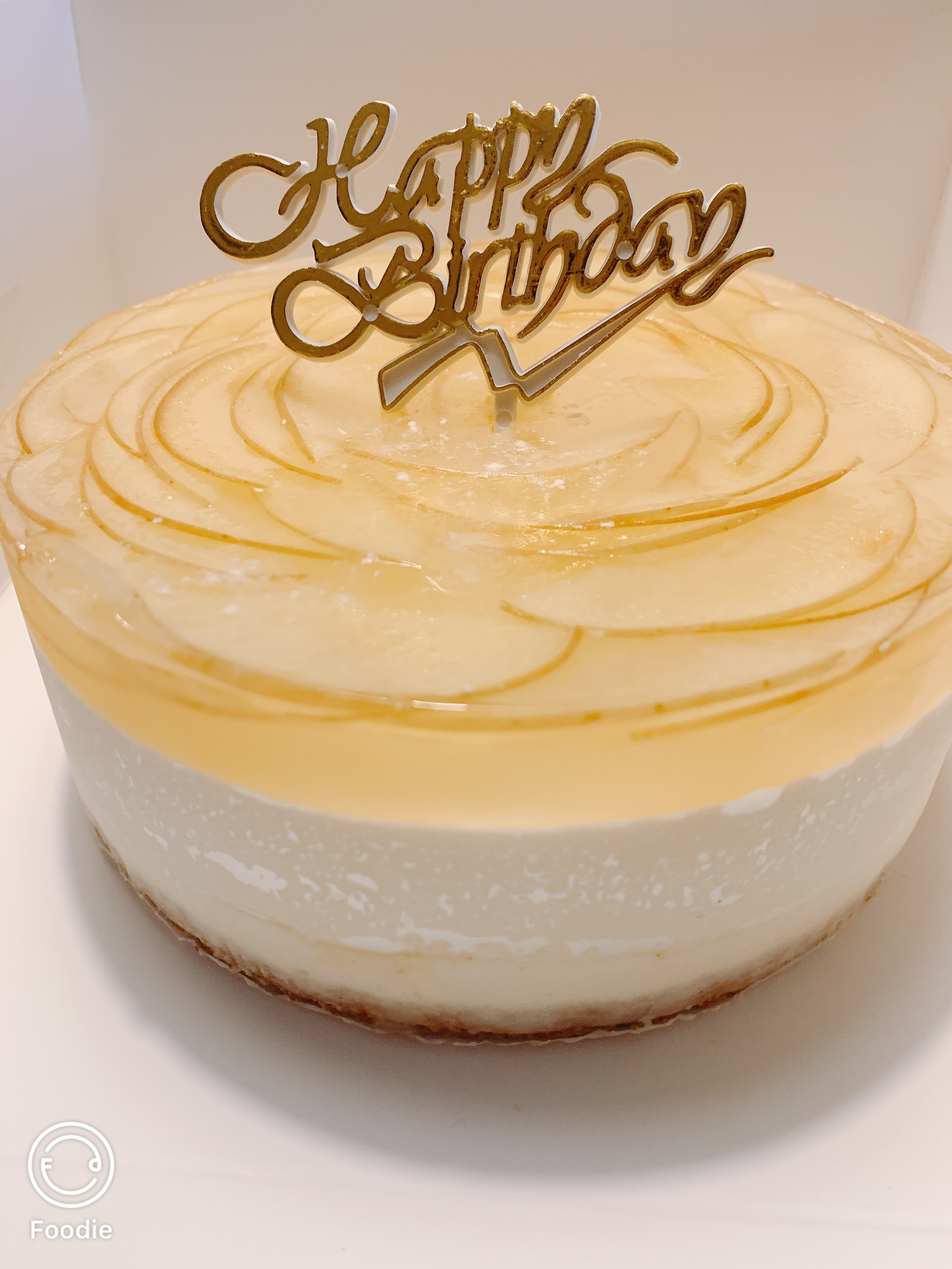
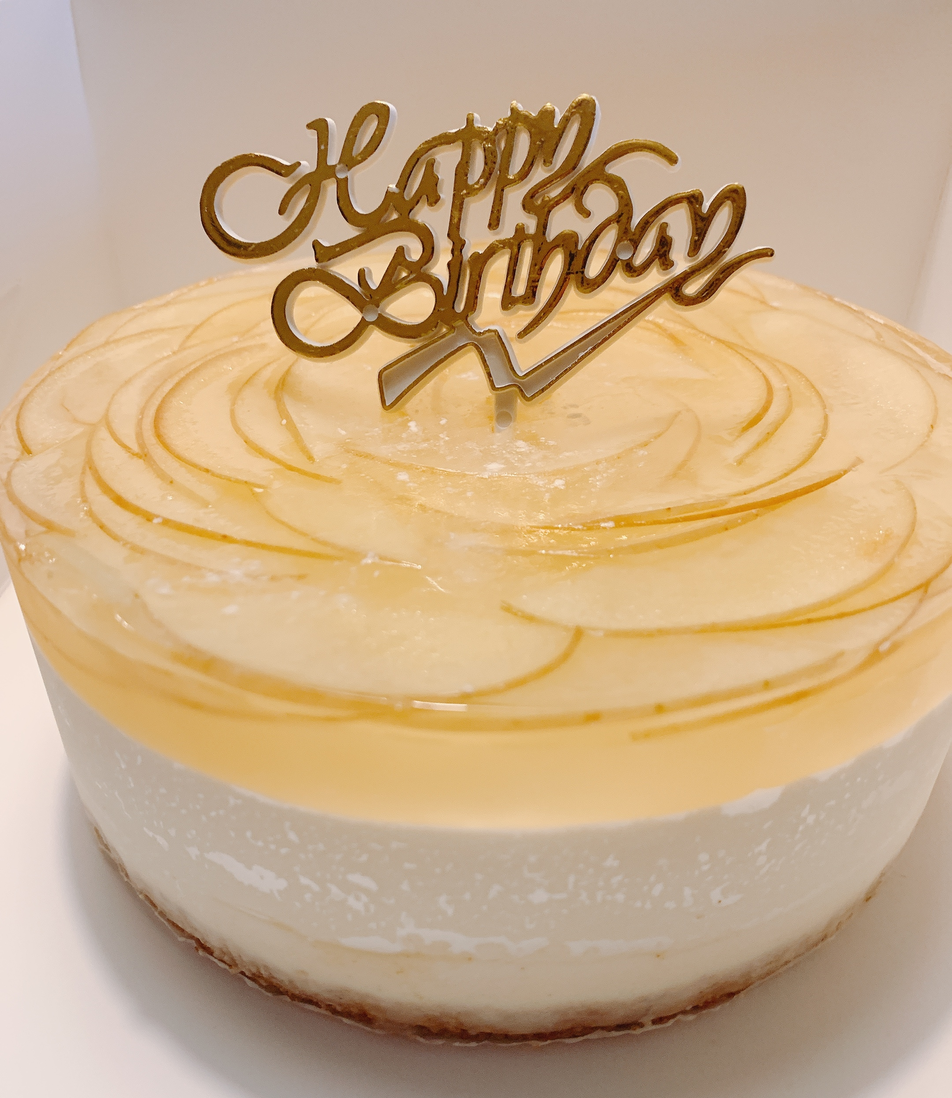
Cropped photos and added words

diff --git a/index.html b/index.html
@@ -58,7 +58,7 @@
   <section id="hero" class="d-flex flex-column justify-content-center">
     <div class="container" data-aos="zoom-in" data-aos-delay="100">
       <h1>Yueqi Zhou</h1>
-      <p>I'm <span class="typed" data-typed-items="People Manager, Baker, Passionate"></span></p>
+      <p>I'm <span class="typed" data-typed-items="a People Manager, a Baker, Passionate"></span></p>
       <div class="social-links">
         <a href="https://www.linkedin.com/in/yueqi-zhou-19951001/" class="linkedin"><i class="bx bxl-linkedin"></i></a>
         <a href="https://www.instagram.com/yueqi.zhou/" class="instagram"><i class="bx bxl-instagram"></i></a>
